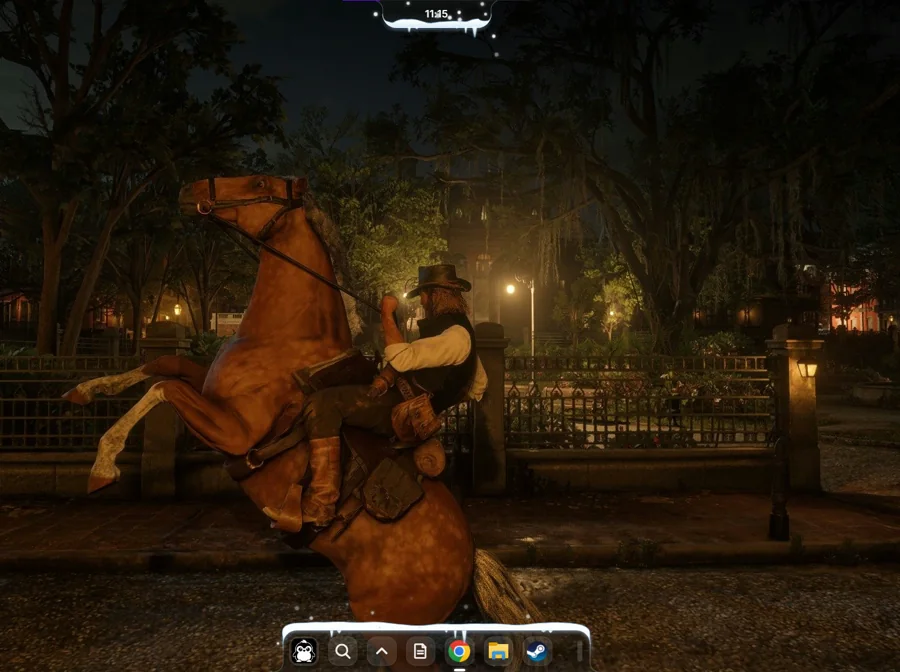
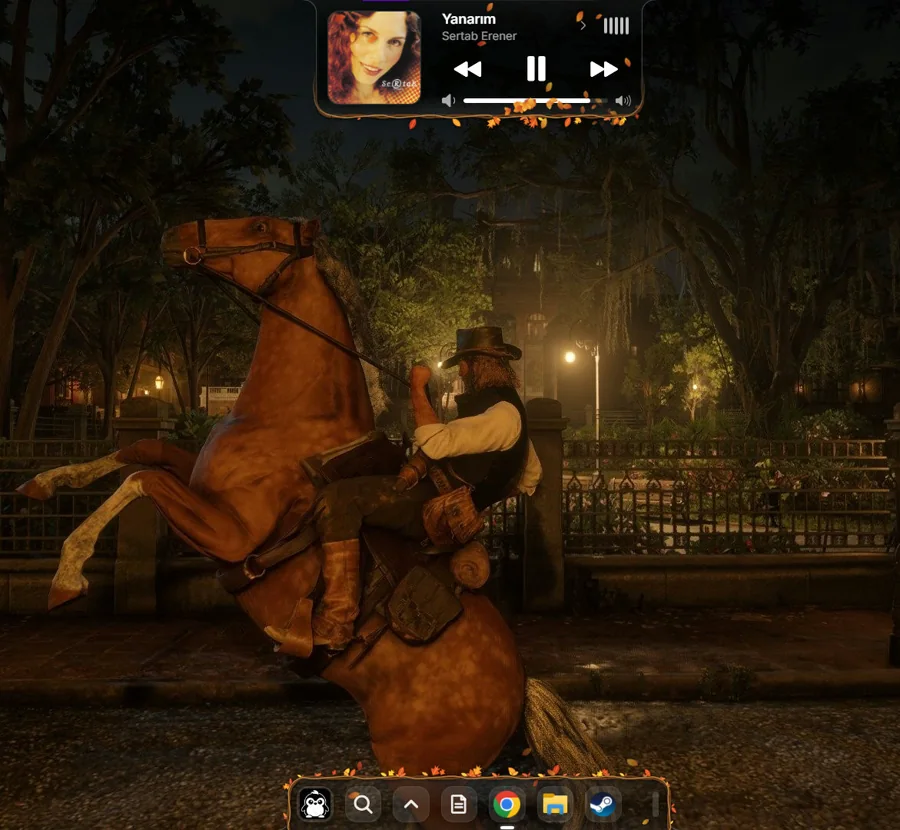
docs: lead with the winter theme, add the blossom and dock-menu shots
The seasons are the first thing people notice, so the fullscreen shot at the
top is now the winter one, with the rim snow and the Control Center visible.
The gallery gains the autumn and blossom themes, and drops the downloads badge:
its number is the sum of every asset, most of which are updater fetches of
latest.json, not installs.

diff --git a/README.md b/README.md
@@ -10,7 +10,6 @@ It replaces your taskbar with a spring-animated notch and dock — then gets out
 the way the moment a game goes fullscreen.
 
 [![Latest release](https://shieldcn.dev/badge/release-v1.9.3.svg?logo=lu:Tag)](https://github.com/fruyorsan/Kiro/releases/latest)
-[![Downloads](https://img.shields.io/github/downloads/fruyorsan/Kiro/total.svg)](https://github.com/fruyorsan/Kiro/releases)
 [![License](https://shieldcn.dev/github/license/fruyorsan/Kiro.svg?logo=lu:Scale)](LICENSE)
 [![Platform](https://shieldcn.dev/badge/platform-Windows%2010%20%7C%2011-0078D4.svg?logo=ri:FaWindows)](https://www.microsoft.com/windows)
 
@@ -18,9 +17,9 @@ the way the moment a game goes fullscreen.
 
 </div>
 
-<img src="docs/screenshots/desktop.webp" alt="Kiro's notch, dock and Control Center over a fullscreen game" />
+<img src="docs/screenshots/season-winter.webp" alt="Kiro's notch, dock and Control Center with the winter theme over a fullscreen game" />
 
-<div align="center"><sub>The notch, the dock and the Control Center, drawn on top of whatever is running. Go fullscreen and they step aside at the OS level, so the game keeps its direct-to-screen flip.</sub></div>
+<div align="center"><sub>Winter on the notch rim and the dock edge — one of four seasons, each with its own rim decoration and falling particles. Go fullscreen and it all steps aside at the OS level, so the game keeps its direct-to-screen flip.</sub></div>
 
 ## Why Kiro
 
@@ -91,18 +90,21 @@ chose.
   </tr>
   <tr>
     <td align="center"><img src="docs/screenshots/notes.webp" width="420" alt="Notes" /></td>
-    <td align="center"><img src="docs/screenshots/game.webp" width="420" alt="Kiro over a fullscreen game" /></td>
+    <td align="center"><img src="docs/screenshots/game.webp" width="420" alt="Kiro with the autumn theme over a fullscreen game" /></td>
   </tr>
   <tr>
     <td align="center"><sub><b>Notes</b> — a small notebook with colours, pictures and export.</sub></td>
-    <td align="center"><sub><b>Over a game</b> — the notch and the dock, right where you left them.</sub></td>
+    <td align="center"><sub><b>Autumn</b> — vines, leaves and a media card, over the game.</sub></td>
+  </tr>
+  <tr>
+    <td align="center"><img src="docs/screenshots/season-blossom.webp" width="261" alt="The notch with the blossom theme" /></td>
+    <td align="center"><img src="docs/screenshots/dock-menu.webp" width="240" alt="Dock right-click menu" /></td>
+  </tr>
+  <tr>
+    <td align="center"><sub><b>Blossom</b> — petals drifting over the notch.</sub></td>
+    <td align="center"><sub><b>Dock menu</b> — pin, add an app, open Settings or toggle FPS Boost.</sub></td>
   </tr>
 </table>
-</div>
-
-<div align="center">
-<img src="docs/screenshots/dock-menu.webp" width="240" alt="Dock right-click menu" />
-<br /><sub><b>Dock menu</b> — pin, add an app, open Settings, toggle FPS Boost or restart, all one right-click away.</sub>
 </div>
 
 ## Features
